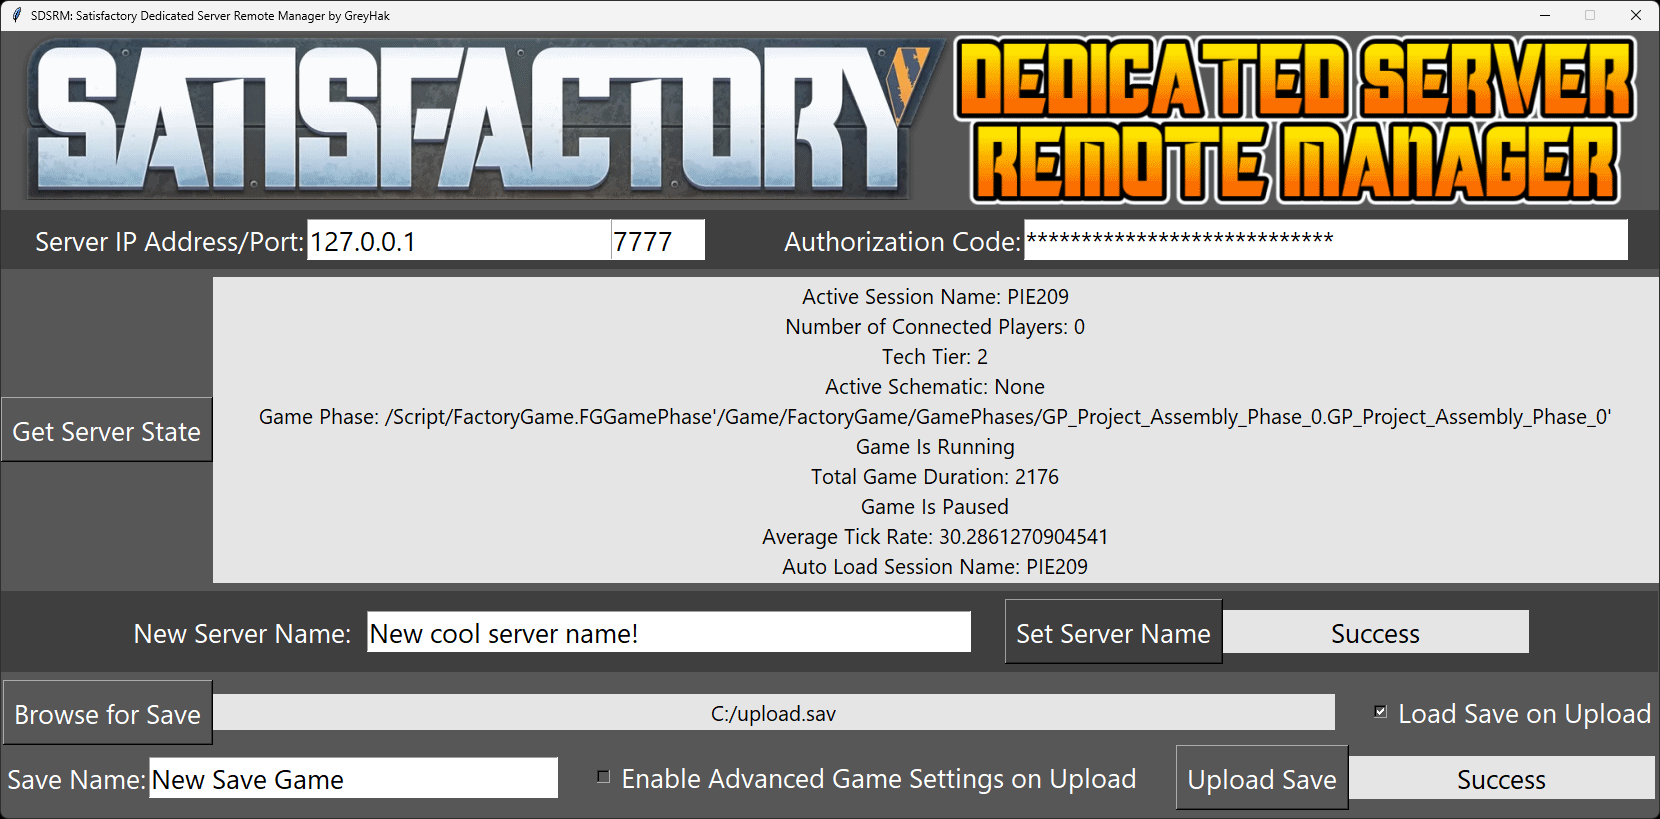
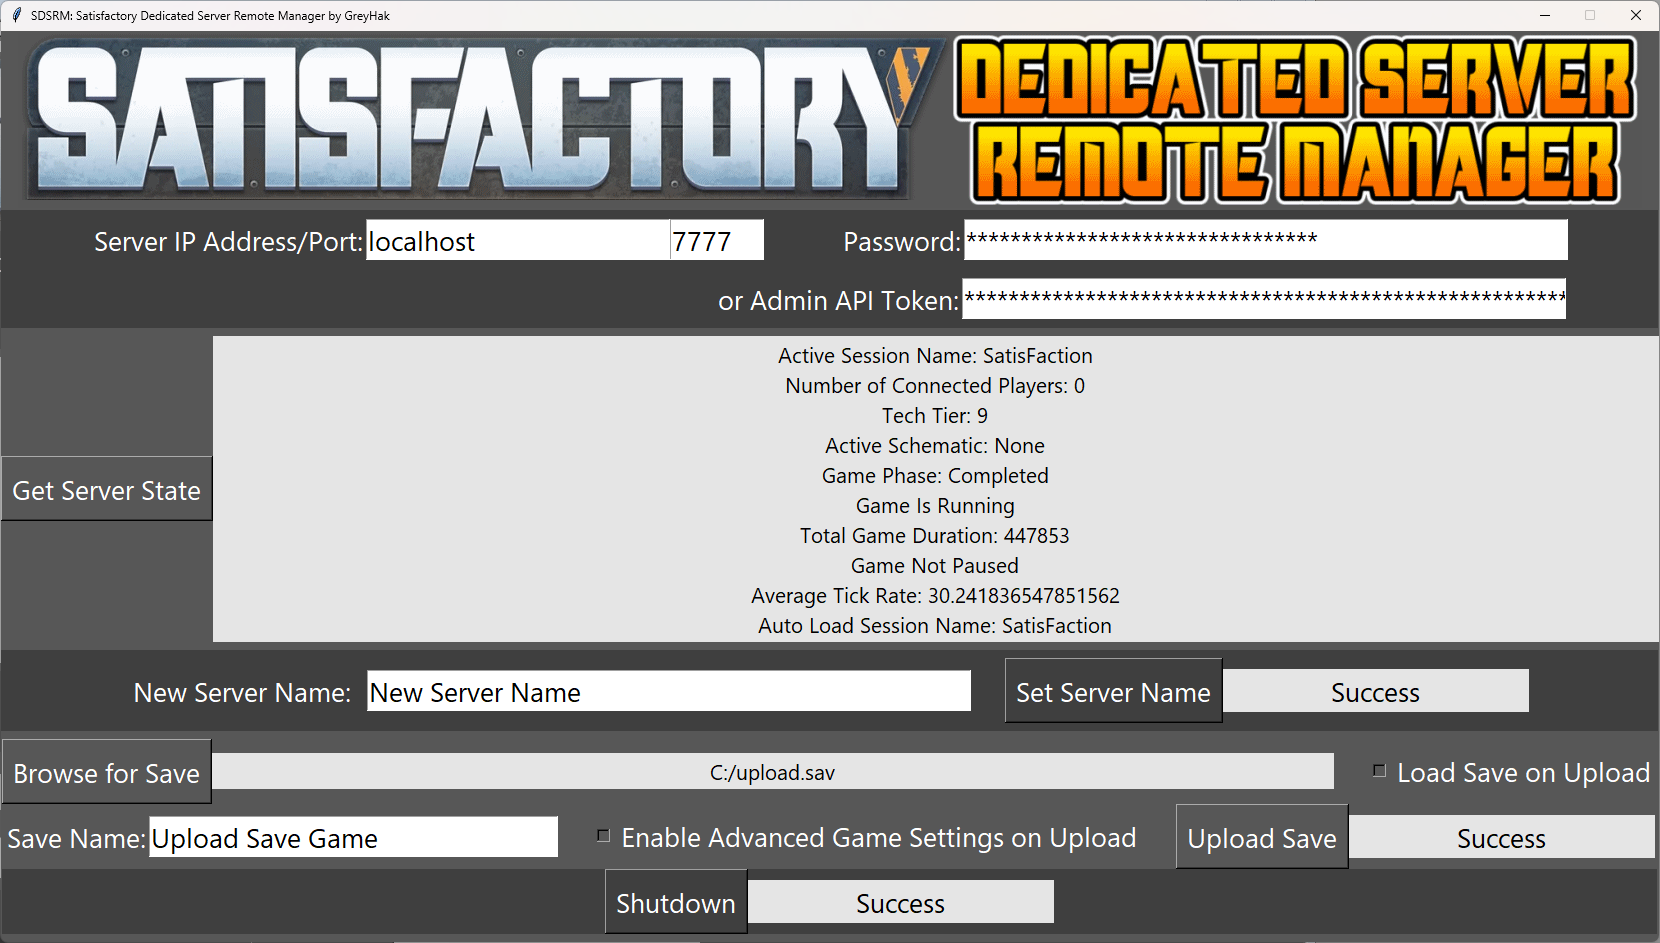
New screenshot + cleanup

diff --git a/sdsrm_lib.py b/sdsrm_lib.py
@@ -326,7 +326,7 @@ def uploadSave(hostname, port, authorizationCode, filepath, saveName, loadCheckF
    global ssock
    for returnFlag in (False, True):
       if not connect(hostname, port):
-         return ("Connection Failed", None)
+         return "Connection Failed"
 
       try:
          ssock.send(package1)
@@ -336,57 +336,37 @@ def uploadSave(hostname, port, authorizationCode, filepath, saveName, loadCheckF
          sock = None
          ssock = None
          if returnFlag:
-            return ("Bad Sock", None)
+            return "Bad Sock"
 
    try:
-      #ssock.settimeout(10) # Adding this causes a TimeoutError exception on success
+      ssock.send(package2.encode())
 
-      if True: # Is this a bug in the server, it is not responding with 100 right away? I suspect curl gives up quickly.
-      #data = ssock.recv(2048)
-      #if len(data) == 0:
-      #   print("No reply")
-      #   data = b"HTTP/1.1 100"
-      #else:
-      #   print(f"Package 1 reply: {data}")
-      #
-      #if data[:12] == b"HTTP/1.1 403":
-      #   return "Server error: Forbidden"
-      #
-      #elif data[:10] == b"HTTP/1.1 4":
-      #   return f"Server error {data[9:12].decode()}"
-      #
-      #elif data[:12] == b"HTTP/1.1 100":
-         ssock.send(package2.encode())
-
-         print(f"Sending file of size {fileSize} bytes")
-         while fileSize > 0:
-            data = fin.read(min(fileSize, 16384))
-            fileSize -= len(data)
-            if fileSize == 0:
-               data += package3[:20]
-               ssock.send(data)
-               ssock.send(package3[20:])
-            else:
-               ssock.send(data)
-
-         data = ssock.recv(2048)
-         if data[:12] == b"HTTP/1.1 202": # Uploaded and Loading
-            return "Success"
-         elif data[:12] == b"HTTP/1.1 201": # Uploaded only
-            return "Success"
-         # 204 is considered a success on the server.
-         # 204 is being considered an error here because it likely means
-         # the save by the specified name already exists on the server
-         # and WAS NOT replaced by the upload file.
-         elif data[:12] == b"HTTP/1.1 204":
-            return "Save Already Exists"
+      print(f"Sending file of size {fileSize} bytes")
+      while fileSize > 0:
+         data = fin.read(min(fileSize, 16384))
+         fileSize -= len(data)
+         if fileSize == 0:
+            data += package3[:20]
+            ssock.send(data)
+            ssock.send(package3[20:])
          else:
-            print(f"Unsupported returned data from server: '{data}'")
-            return f"Upload Failure {data[9:12].decode()}"
+            ssock.send(data)
 
+      data = ssock.recv(2048)
+      if data[:12] == b"HTTP/1.1 202": # Uploaded and Loading
+         return "Success"
+      elif data[:12] == b"HTTP/1.1 201": # Uploaded only
+         return "Success"
+      # 204 is considered a success on the server.
+      # 204 is being considered an error here because it likely means
+      # the save by the specified name already exists on the server
+      # and WAS NOT replaced by the upload file.
+      elif data[:12] == b"HTTP/1.1 204":
+         return "Save Already Exists"
       else:
-         print(f"100 Continue not received as expected: '{data}'")
-         return "Transfer Rejected"
+         print(f"Unsupported returned data from server: '{data}'")
+         return f"Upload Failure {data[9:12].decode()}"
+
    except (ssl.SSLEOFError, ssl.SSLZeroReturnError):  # Seen on ssock.send when server terminated prematurely.
       return "Termination Exception"
    except TimeoutError:
@@ -400,7 +380,7 @@ def shutdown(hostname, port, authorizationCode):
    global ssock
    for returnFlag in (False, True):
       if not connect(hostname, port):
-         return ("Connection Failed", None)
+         return "Connection Failed"
 
       try:
          print("DEBUG: Verifying Authentication")
@@ -411,23 +391,23 @@ def shutdown(hostname, port, authorizationCode):
          sock = None
          ssock = None
          if returnFlag:
-            return ("Bad Sock", False)
+            return "Bad Sock"
 
    ssock.settimeout(10)
 
    try:
       data = ssock.recv(2048)
    except TimeoutError:
-      return ("Timed Out", False)
+      return "Timed Out"
 
    if data[:12] == b"HTTP/1.1 401":
-      return ("Auth Failure", False)
+      return "Auth Failure"
 
    if data[:10] == b"HTTP/1.1 4":
-      return (f"Server error {data[9:12].decode()}", False)
+      return f"Server error {data[9:12].decode()}"
 
    if data[:12] == b"HTTP/1.1 204":
-      return ("Success", True)
+      return "Success"
 
    print(f"Unsupported returned data from server: '{data}'")
-   return ("Server Failure", False)
+   return "Server Failure"

diff --git a/sdsrm_gui.py b/sdsrm_gui.py
@@ -162,8 +162,8 @@ def onShutdown():
    (adminFlag, authorizationCode) = authorizationInfo
    ((hostname, port), password) = getServerDetails()
 
-   (resultString, resultFlag) = sdsrm_lib.shutdown(hostname, port, authorizationCode)
-   shutdownStatusValue.set(resultString)
+   shutdownStatus = sdsrm_lib.shutdown(hostname, port, authorizationCode)
+   shutdownStatusValue.set(shutdownStatus)
 
 if __name__ == '__main__':
 

diff --git a/README.md b/README.md
@@ -71,6 +71,7 @@ This library provides the following interfaces:
  - (getStatus, serverStatus) = sdsrm_lib.getServerState(hostname, port, authorizationCode)
  - setStatus = sdsrm_lib.setServerName(hostname, port, authorizationCode, newName)
  - uploadStatus = sdsrm_lib.uploadSave(hostname, port, authorizationCode, filepath, saveName, loadCheckFlag, advancedCheckFlag)
+ - shutdownStatus = sdsrm_lib.shutdown(hostname, port, authorizationCode)
 
 ## Credits
  - Credit to [Nate Wren](https://natewren.com/satisfontory/) for the font used
